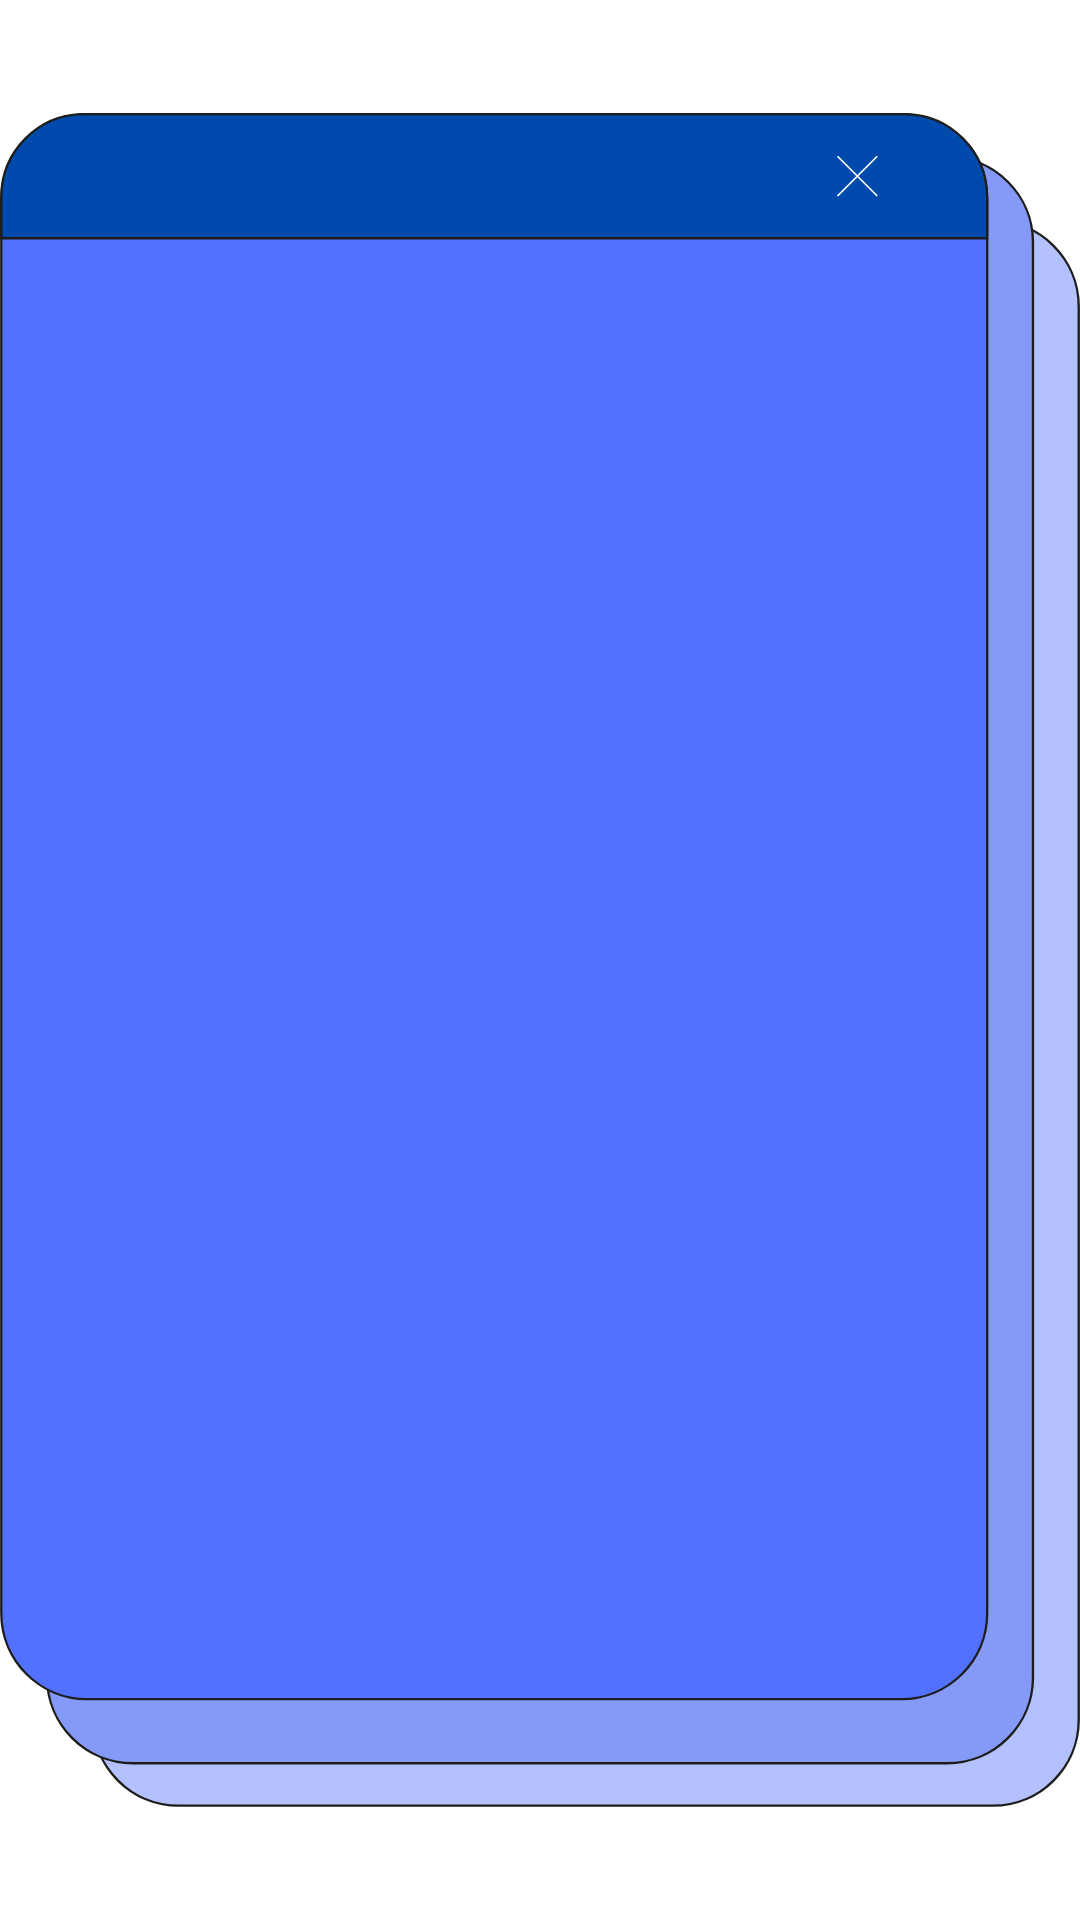
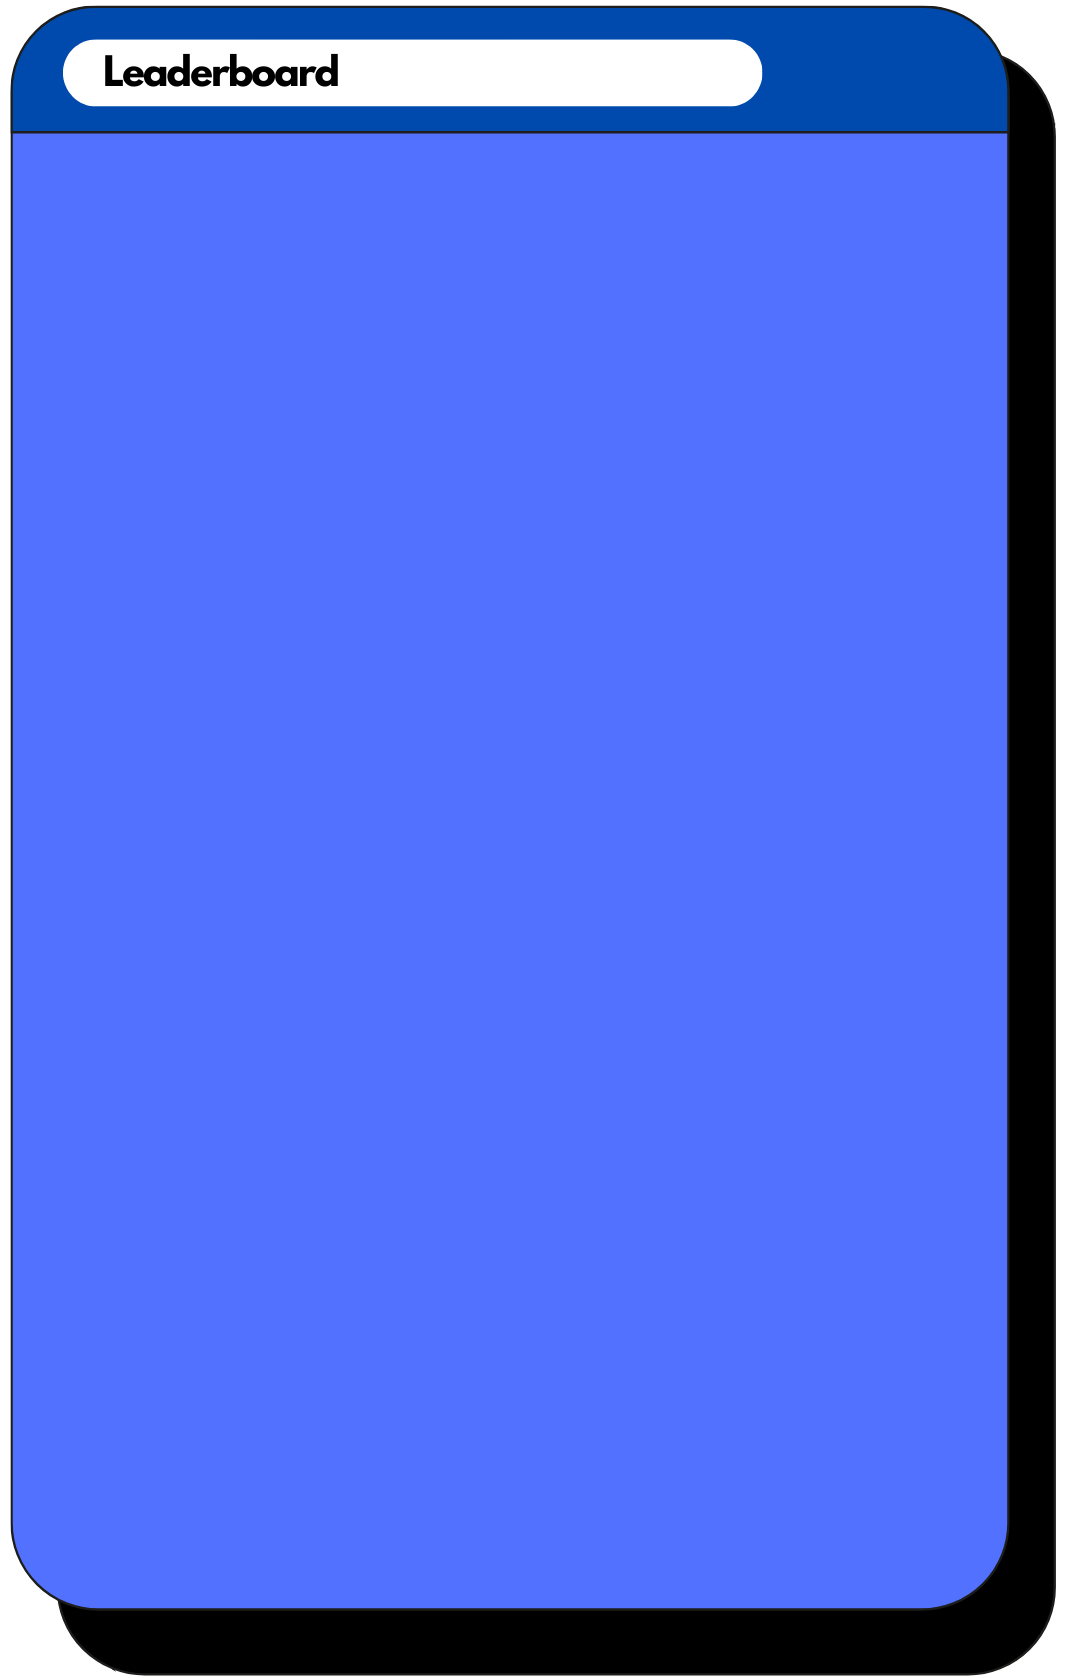
Fixed some styling issues and added the code editor for the code battles

Changed region(s): [[0.0, 0.0, 1.0, 1.0]]

diff --git a/src/components.d.ts b/src/components.d.ts
@@ -8,6 +8,12 @@ import { HTMLStencilElement, JSXBase } from "@stencil/core/internal";
 export namespace Components {
     interface AppDashboard {
     }
+    interface BattleEditor {
+        "height": number;
+        "width": number;
+    }
+    interface CodeBattles {
+    }
     interface ProfileAvatar {
         "name": any;
         "size": string;
@@ -32,6 +38,18 @@ declare global {
     var HTMLAppDashboardElement: {
         prototype: HTMLAppDashboardElement;
         new (): HTMLAppDashboardElement;
+    };
+    interface HTMLBattleEditorElement extends Components.BattleEditor, HTMLStencilElement {
+    }
+    var HTMLBattleEditorElement: {
+        prototype: HTMLBattleEditorElement;
+        new (): HTMLBattleEditorElement;
+    };
+    interface HTMLCodeBattlesElement extends Components.CodeBattles, HTMLStencilElement {
+    }
+    var HTMLCodeBattlesElement: {
+        prototype: HTMLCodeBattlesElement;
+        new (): HTMLCodeBattlesElement;
     };
     interface HTMLProfileAvatarElement extends Components.ProfileAvatar, HTMLStencilElement {
     }
@@ -71,6 +89,8 @@ declare global {
     };
     interface HTMLElementTagNameMap {
         "app-dashboard": HTMLAppDashboardElement;
+        "battle-editor": HTMLBattleEditorElement;
+        "code-battles": HTMLCodeBattlesElement;
         "profile-avatar": HTMLProfileAvatarElement;
         "profile-card": HTMLProfileCardElement;
         "profile-level": HTMLProfileLevelElement;
@@ -81,6 +101,12 @@ declare global {
 }
 declare namespace LocalJSX {
     interface AppDashboard {
+    }
+    interface BattleEditor {
+        "height"?: number;
+        "width"?: number;
+    }
+    interface CodeBattles {
     }
     interface ProfileAvatar {
         "name"?: any;
@@ -101,6 +127,8 @@ declare namespace LocalJSX {
     }
     interface IntrinsicElements {
         "app-dashboard": AppDashboard;
+        "battle-editor": BattleEditor;
+        "code-battles": CodeBattles;
         "profile-avatar": ProfileAvatar;
         "profile-card": ProfileCard;
         "profile-level": ProfileLevel;
@@ -114,6 +142,8 @@ declare module "@stencil/core" {
     export namespace JSX {
         interface IntrinsicElements {
             "app-dashboard": LocalJSX.AppDashboard & JSXBase.HTMLAttributes<HTMLAppDashboardElement>;
+            "battle-editor": LocalJSX.BattleEditor & JSXBase.HTMLAttributes<HTMLBattleEditorElement>;
+            "code-battles": LocalJSX.CodeBattles & JSXBase.HTMLAttributes<HTMLCodeBattlesElement>;
             "profile-avatar": LocalJSX.ProfileAvatar & JSXBase.HTMLAttributes<HTMLProfileAvatarElement>;
             "profile-card": LocalJSX.ProfileCard & JSXBase.HTMLAttributes<HTMLProfileCardElement>;
             "profile-level": LocalJSX.ProfileLevel & JSXBase.HTMLAttributes<HTMLProfileLevelElement>;

diff --git a/src/components/atoms/CodeBattles/Editor/battle-editor.tsx b/src/components/atoms/CodeBattles/Editor/battle-editor.tsx
@@ -1,0 +1,50 @@
+import { Component, h, Host, Element, Prop, State } from '@stencil/core';
+import * as monaco from 'monaco-editor';
+
+@Component({
+  tag: 'battle-editor',
+  styleUrl: 'battle-editor.scss',
+  shadow: true,
+})
+export class BattleEditor {
+    @Prop() width = 80;
+    @Prop() height = 80;
+
+    @State() template = '';
+
+    @Element() element: HTMLElement;
+    editor: monaco.editor.IStandaloneCodeEditor;
+  
+    componentDidRender() {
+      this.initializeEditor();
+    }
+  
+    initializeEditor() {
+      const editorElement = document.createElement('div');
+      editorElement.id = 'code-editor';
+      editorElement.style.height = `${this.height}vh`; // Set the desired height here
+      editorElement.style.width = `${this.width}vw`; // Set the desired width here
+      this.element.shadowRoot.appendChild(editorElement);
+  
+      this.editor = monaco.editor.create(editorElement, {
+        value: this.template,
+        language: 'java',
+        theme: 'vs-dark',
+        automaticLayout: true,
+      });
+  
+      // Customize editor settings if needed
+      this.editor.updateOptions({
+        // options
+      });
+
+      
+    }
+  
+    render() {
+      return (
+        <Host>
+        </Host>
+      );
+    }
+}

diff --git a/src/components/molecules/CodeBattles/code-battles.tsx b/src/components/molecules/CodeBattles/code-battles.tsx
@@ -1,0 +1,36 @@
+import { Component, h, Host, State } from '@stencil/core';
+import firebase from 'firebase/compat';
+import { firebaseConfig } from '../../../utils/firebase.config';
+
+@Component({
+  tag: 'code-battles',
+  styleUrl: 'code-battles.scss',
+  shadow: true,
+})
+export class Leaderboard {
+  @State() challenge: string = '';
+
+  async componentWillLoad() {
+    firebase.initializeApp(firebaseConfig);
+  }
+
+  generateChallenge() {
+    // Generate a random coding challenge
+  }
+
+  render() {
+    return (
+      <Host>
+        <div class={'overlay'}>
+          <div class={'challenge'}>
+            <h2 class={'title'}>Coding Exercises</h2>
+            <button onClick={() => this.generateChallenge()}>Generate Challenge</button>
+            <div>{this.challenge}</div>
+            {/* Add code editor component here */}
+            {/* Add check button component here */}
+          </div>
+        </div>
+      </Host>
+    );
+  }
+}

diff --git a/src/components/pages/Dashboard/app-dashboard.tsx b/src/components/pages/Dashboard/app-dashboard.tsx
@@ -1,4 +1,4 @@
-import { Component, h, Host } from '@stencil/core';
+import { Component, h } from '@stencil/core';
 
 @Component({
   tag: 'app-dashboard',
@@ -8,12 +8,15 @@ import { Component, h, Host } from '@stencil/core';
 export class Dashboard {
   render() {
     return (
-      <Host class={'host'}>
+      <div class={'dashboard-container'}>
         <div class={'profile-information'}>
           <profile-card class={'profile'} />
           <user-challenges class={'challenges'} />
         </div>
-      </Host>
+        <div class={'right'}>
+          <user-leaderboard class={'leaderboard'} />
+        </div>
+      </div>
     );
   }
 }

diff --git a/src/components/atoms/CodeBattles/Editor/battle-editor.stories.tsx b/src/components/atoms/CodeBattles/Editor/battle-editor.stories.tsx
@@ -1,0 +1,28 @@
+export default {
+  title: 'Atoms/Code Battles/Editor',
+  argTypes: {
+    width: {
+      name: 'width',
+      defaultValue: 80,
+      control: {
+        require: true,
+        type: 'number',
+      },
+    },
+    height: {
+      name: 'height',
+      defaultValue: 80,
+      control: {
+        require: true,
+        type: 'number',
+      },
+    },
+  },
+};
+const template = args => `<battle-editor width="${args.width}" height="${args.height}"></battle-editor>`;
+
+export const battleEditor = template.bind({});
+battleEditor.args = {
+  width: 80,
+  height: 80,
+};

diff --git a/src/index.html b/src/index.html
@@ -7,6 +7,8 @@
 
     <script type="module" src="/build/progrow.esm.js"></script>
     <script nomodule src="/build/progrow.js"></script>
+    <script src="https://cdnjs.cloudflare.com/ajax/libs/monaco-editor/0.27.0/min/vs/loader.min.js"></script>
+
   </head>
   <body>
     <my-component first="Stencil" last="'Don't call me a framework' JS"></my-component>

diff --git a/src/components/pages/Dashboard/app-dashboard.scss b/src/components/pages/Dashboard/app-dashboard.scss
@@ -1,6 +1,16 @@
-.profile-information{
+.dashboard-container {
+  display: flex;
+  justify-content: space-between;
+}
+
+.profile-information {
   display: flex;
   flex-direction: column;
-
+  width: 40%;
   gap: 35px;
+  margin-top: 5px;
+}
+
+.right {
+  flex-shrink: 0; /* Prevents the element from shrinking */
 }

diff --git a/src/components/molecules/Leaderboard/user-leaderboard.scss b/src/components/molecules/Leaderboard/user-leaderboard.scss
@@ -14,9 +14,9 @@
 
     width: 100%;
     height: 100%;
-    max-height: 26em;
+    max-height: 30em;
 
-    margin: 4.4em 2em 1em 1em;
+    margin: 2.8em 2em 1em 1em;
     overflow-y: auto;
 
     .users {

diff --git a/src/components/molecules/CodeBattles/code-battles.stories.tsx b/src/components/molecules/CodeBattles/code-battles.stories.tsx
@@ -1,0 +1,6 @@
+export default {
+    title: 'Molecules/Social/Code Battles',
+  };
+  const template = () => `<code-battles></code-battles>`;
+  
+  export const codeBattles = template.bind({});

diff --git a/src/components/molecules/Challenges/challenges.stories.tsx b/src/components/molecules/Challenges/challenges.stories.tsx
@@ -1,5 +1,5 @@
 export default {
-  title: 'Molecules/Challenges',
+  title: 'Molecules/Social/Challenges',
   argTypes: {},
 };
 const template = () => `<user-challenges></user-challenges>`;

diff --git a/src/components/atoms/CodeBattles/Editor/battle-editor.scss b/src/components/atoms/CodeBattles/Editor/battle-editor.scss
@@ -1,0 +1,5 @@
+@import '~monaco-editor/min/vs/editor/editor.main.css';
+
+:host {
+  display: block;
+}
